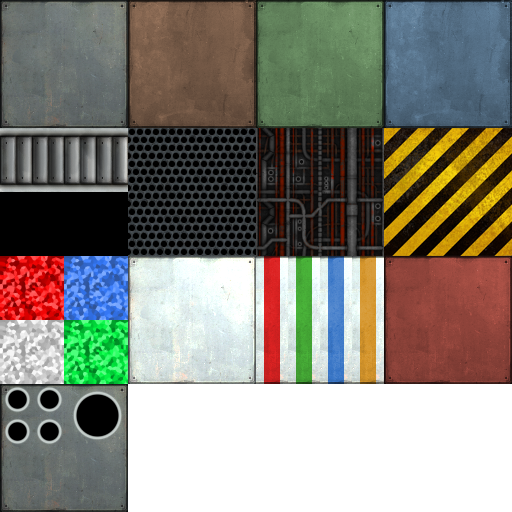
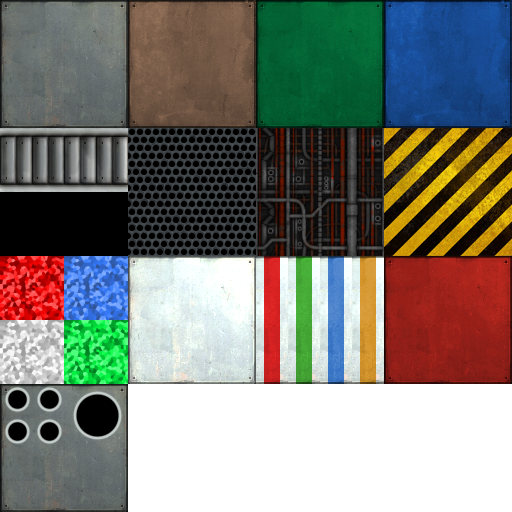
remodelled missile launcher models, changed weapon names, color palette of weapon models

Changed region(s): [[0.5, 0.0, 1.0, 0.25], [0.75, 0.5, 1.0, 0.75]]

diff --git a/dist/Init.js b/dist/Init.js
@@ -29844,7 +29844,7 @@ module.exports = CustomModelCreator;
 'use strict';
 
 var ModelList = {
-    models: ['/models/none.json', '/models/ship.json', '/models/ravier.json', '/models/ravier_gunless.json', '/models/ravier_shield.json', '/models/drone.json', '/models/chaser.json', '/models/sniper.json', '/models/orbot.json', '/models/shulk.json', '/models/mhulk.json', '/models/lhulk.json', '/models/spider.json', '/models/spider2.json', '/models/chunk.json', '/models/telering_bottom.json', '/models/telering_top.json', '/models/levels/startmenu.json', '/models/lasgun.json', '/models/redlasgun.json', '/models/emdgun.json', '/models/plasmagun.json', '/models/plasmablast.json', '/models/pulsewavegun.json', '/models/missilelauncher.json', '/models/missilelauncher2.json', '/models/homingmissilelauncher.json', '/models/hudMaterial.json', '/models/flatHudMaterial.json', '/models/missile.json']
+    models: ['/models/none.json', '/models/ship.json', '/models/ravier.json', '/models/ravier_gunless.json', '/models/ravier_shield.json', '/models/drone.json', '/models/chaser.json', '/models/sniper.json', '/models/orbot.json', '/models/shulk.json', '/models/mhulk.json', '/models/lhulk.json', '/models/spider.json', '/models/spider2.json', '/models/chunk.json', '/models/telering_bottom.json', '/models/telering_top.json', '/models/levels/startmenu.json', '/models/lasgun.json', '/models/redlasgun.json', '/models/emdgun.json', '/models/plasmagun.json', '/models/plasmablast.json', '/models/pulsewavegun.json', '/models/missilelauncher.json', '/models/missilelauncher2.json', '/models/homingmissilelauncher.json', '/models/missilelauncher3.json', '/models/homingmissilelauncher3.json', '/models/hudMaterial.json', '/models/flatHudMaterial.json', '/models/missile.json']
 };
 
 module.exports = ModelList;
@@ -37508,7 +37508,7 @@ var WeaponConfig = {
         burstCooldown: 5,
         sound: 'blue_laser',
         firingMode: 'simultaneous',
-        name: 'GAN BLASTER',
+        name: 'BURST BLASTER',
         modelName: 'lasgun',
         ammoConfig: {
             energy: 1.5
@@ -37563,7 +37563,7 @@ var WeaponConfig = {
         burstCooldown: 6,
         sound: 'laser_green',
         firingMode: 'alternate',
-        name: 'CO-VA BLASTER',
+        name: 'HEAVY BLASTER',
         modelName: 'redlasgun',
         ammoConfig: {
             energy: 1.5
@@ -37577,7 +37577,7 @@ var WeaponConfig = {
         firingMode: 'alternate',
         volume: 0.5,
         name: 'HOMING MISSILE SYSTEM',
-        modelName: 'homingmissilelauncher',
+        modelName: 'homingmissilelauncher3',
         ammoConfig: {
             missiles: 1,
             energy: 4
@@ -37591,7 +37591,7 @@ var WeaponConfig = {
         burstCooldown: 5,
         sound: 'red_laser',
         firingMode: 'alternate',
-        name: 'LIGHT NE-HE BLASTER',
+        name: 'LIGHT BLASTER',
         modelName: 'redlasgun',
         ammoConfig: {
             energy: 0.3
@@ -37604,7 +37604,7 @@ var WeaponConfig = {
         sound: 'missile',
         firingMode: 'alternate',
         name: 'CONCUSSION MISSILE SYSTEM',
-        modelName: 'missilelauncher',
+        modelName: 'missilelauncher3',
         ammoConfig: {
             missiles: 1
         }
@@ -37700,7 +37700,7 @@ var WeaponConfig = {
         velocity: 1400,
         sound: 'red_laser',
         firingMode: 'simultaneous',
-        name: 'NE-HE BLASTER',
+        name: 'COMBAT BLASTER',
         modelName: 'redlasgun',
         ammoConfig: {
             energy: 0.5
@@ -37726,7 +37726,7 @@ var WeaponConfig = {
         burstCooldown: 20,
         sound: 'laser_purple',
         firingMode: 'alternate',
-        name: 'GL-NI BLASTER',
+        name: 'POWERED BLASTER',
         modelName: 'lasgun',
         ammoConfig: {
             energy: 1.5

diff --git a/dist/LogicInit.js b/dist/LogicInit.js
@@ -8777,7 +8777,7 @@ var WeaponConfig = {
         burstCooldown: 5,
         sound: 'blue_laser',
         firingMode: 'simultaneous',
-        name: 'GAN BLASTER',
+        name: 'BURST BLASTER',
         modelName: 'lasgun',
         ammoConfig: {
             energy: 1.5
@@ -8832,7 +8832,7 @@ var WeaponConfig = {
         burstCooldown: 6,
         sound: 'laser_green',
         firingMode: 'alternate',
-        name: 'CO-VA BLASTER',
+        name: 'HEAVY BLASTER',
         modelName: 'redlasgun',
         ammoConfig: {
             energy: 1.5
@@ -8846,7 +8846,7 @@ var WeaponConfig = {
         firingMode: 'alternate',
         volume: 0.5,
         name: 'HOMING MISSILE SYSTEM',
-        modelName: 'homingmissilelauncher',
+        modelName: 'homingmissilelauncher3',
         ammoConfig: {
             missiles: 1,
             energy: 4
@@ -8860,7 +8860,7 @@ var WeaponConfig = {
         burstCooldown: 5,
         sound: 'red_laser',
         firingMode: 'alternate',
-        name: 'LIGHT NE-HE BLASTER',
+        name: 'LIGHT BLASTER',
         modelName: 'redlasgun',
         ammoConfig: {
             energy: 0.3
@@ -8873,7 +8873,7 @@ var WeaponConfig = {
         sound: 'missile',
         firingMode: 'alternate',
         name: 'CONCUSSION MISSILE SYSTEM',
-        modelName: 'missilelauncher',
+        modelName: 'missilelauncher3',
         ammoConfig: {
             missiles: 1
         }
@@ -8969,7 +8969,7 @@ var WeaponConfig = {
         velocity: 1400,
         sound: 'red_laser',
         firingMode: 'simultaneous',
-        name: 'NE-HE BLASTER',
+        name: 'COMBAT BLASTER',
         modelName: 'redlasgun',
         ammoConfig: {
             energy: 0.5
@@ -8995,7 +8995,7 @@ var WeaponConfig = {
         burstCooldown: 20,
         sound: 'laser_purple',
         firingMode: 'alternate',
-        name: 'GL-NI BLASTER',
+        name: 'POWERED BLASTER',
         modelName: 'lasgun',
         ammoConfig: {
             energy: 1.5

diff --git a/src/shared/WeaponConfig.js b/src/shared/WeaponConfig.js
@@ -69,7 +69,7 @@ const WeaponConfig = {
         burstCooldown: 5,
         sound: 'blue_laser',
         firingMode: 'simultaneous',
-        name: 'GAN BLASTER',
+        name: 'BURST BLASTER',
         modelName: 'lasgun',
         ammoConfig: {
             energy: 1.5
@@ -124,7 +124,7 @@ const WeaponConfig = {
         burstCooldown: 6,
         sound: 'laser_green',
         firingMode: 'alternate',
-        name: 'CO-VA BLASTER',
+        name: 'HEAVY BLASTER',
         modelName: 'redlasgun',
         ammoConfig: {
             energy: 1.5
@@ -138,7 +138,7 @@ const WeaponConfig = {
         firingMode: 'alternate',
         volume: 0.5,
         name: 'HOMING MISSILE SYSTEM',
-        modelName: 'homingmissilelauncher',
+        modelName: 'homingmissilelauncher3',
         ammoConfig: {
             missiles: 1,
             energy: 4
@@ -152,7 +152,7 @@ const WeaponConfig = {
         burstCooldown: 5,
         sound: 'red_laser',
         firingMode: 'alternate',
-        name: 'LIGHT NE-HE BLASTER',
+        name: 'LIGHT BLASTER',
         modelName: 'redlasgun',
         ammoConfig: {
             energy: 0.3
@@ -165,7 +165,7 @@ const WeaponConfig = {
         sound: 'missile',
         firingMode: 'alternate',
         name: 'CONCUSSION MISSILE SYSTEM',
-        modelName: 'missilelauncher',
+        modelName: 'missilelauncher3',
         ammoConfig: {
             missiles: 1
         }
@@ -261,7 +261,7 @@ const WeaponConfig = {
         velocity: 1400,
         sound: 'red_laser',
         firingMode: 'simultaneous',
-        name: 'NE-HE BLASTER',
+        name: 'COMBAT BLASTER',
         modelName: 'redlasgun',
         ammoConfig: {
             energy: 0.5
@@ -287,7 +287,7 @@ const WeaponConfig = {
         burstCooldown: 20,
         sound: 'laser_purple',
         firingMode: 'alternate',
-        name: 'GL-NI BLASTER',
+        name: 'POWERED BLASTER',
         modelName: 'lasgun',
         ammoConfig: {
             energy: 1.5

diff --git a/src/renderer/assetManagement/model/ModelList.js b/src/renderer/assetManagement/model/ModelList.js
@@ -27,6 +27,8 @@ var ModelList = {
         '/models/missilelauncher.json',
         '/models/missilelauncher2.json',
         '/models/homingmissilelauncher.json',
+        '/models/missilelauncher3.json',
+        '/models/homingmissilelauncher3.json',
         '/models/hudMaterial.json',
         '/models/flatHudMaterial.json',
         '/models/missile.json'
